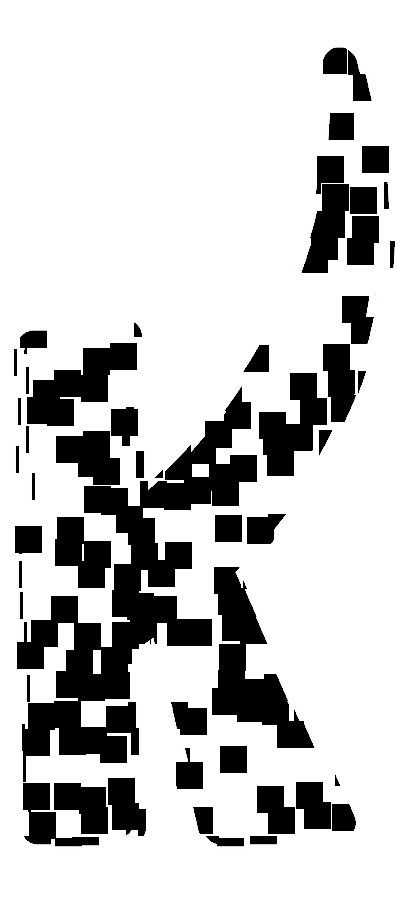
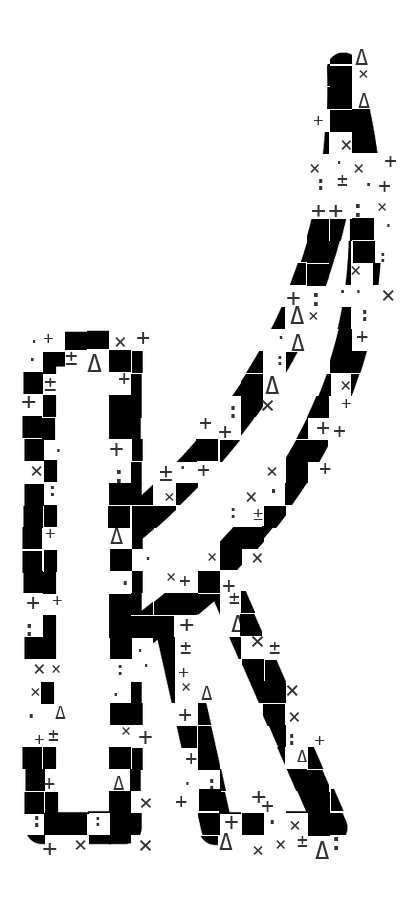
puu

Changed region(s): [[0.0295, 0.0311, 0.973, 0.9644]]

diff --git a/main.js b/main.js
@@ -76,11 +76,11 @@
     if (chars.length < 12) return;
     var kChar = chars[7];
     kChar.classList.add("char--kmark");
-    kChar.innerHTML = '<img src="assets/brand/k-mark.png" alt="">';
+    kChar.innerHTML = '<img src="assets/brand/k-mark.png?v=3" alt="">';
     if (kChar.parentNode) kChar.parentNode.classList.add("char-clip--kmark");
     var trace = doc.querySelector(".wordmark--trace");
     if (trace) {
-      trace.innerHTML = 'Etienne<img class="wordmark__kmark-trace" src="assets/brand/k-mark.png" alt="">ainz';
+      trace.innerHTML = 'Etienne<img class="wordmark__kmark-trace" src="assets/brand/k-mark.png?v=3" alt="">ainz';
     }
   })();
 
@@ -489,31 +489,34 @@
           };
         };
         openingTimeline
-          // Pixel-perfect takeover from the inline mark before letters move.
+          // Atomic takeover: the overlay replaces the inline mark in a
+          // single beat, before the mask or the letters begin to move —
+          // at no point are two Ks visible.
           .fromTo(kLogo, {
             x: function () { return kStart().x; },
             y: function () { return kStart().y; },
             scale: function () { return kStart().scale; },
             opacity: 0
-          }, { opacity: 1, duration: 0.025, ease: "none" }, 0.05)
-          .to(".char-clip--kmark", { opacity: 0, duration: 0.015, ease: "none" }, 0.075)
+          }, { opacity: 1, duration: 0.006, ease: "none" }, 0.018)
+          .to(".char-clip--kmark", { opacity: 0, duration: 0.006, ease: "none" }, 0.018)
           .to(kLogo, {
             x: function () { return window.innerWidth * 0.51 - kLogo.offsetWidth / 2; },
             y: function () { return window.innerHeight * 0.45 - kLogo.offsetHeight / 2; },
             scale: function () { return window.innerHeight * 0.55 / Math.max(1, kLogo.offsetHeight); },
-            duration: 0.24,
+            duration: 0.26,
             ease: "power2.inOut"
-          }, 0.1)
-          // Granular disintegration: solid → coarse → sparse → dust.
-          .to(kFrames[0], { opacity: 0, duration: 0.05, ease: "none" }, 0.26)
-          .to(kFrames[1], { opacity: 1, duration: 0.045, ease: "none" }, 0.252)
-          .to(kFrames[1], { opacity: 0, duration: 0.05, ease: "none" }, 0.315)
-          .to(kFrames[2], { opacity: 1, duration: 0.045, ease: "none" }, 0.308)
-          .to(kFrames[2], { opacity: 0, duration: 0.05, ease: "none" }, 0.37)
-          .to(kFrames[3], { opacity: 1, duration: 0.045, ease: "none" }, 0.362)
-          .to(kFrames[3], { opacity: 0, duration: 0.075, ease: "power1.in" }, 0.425)
-          // The dust keeps drifting up and outward as it converts.
-          .to(kLogo, { y: "-=34", scale: "+=0.06", duration: 0.24, ease: "none" }, 0.26);
+          }, 0.06)
+          // The mark converts to field notation: each stage swaps more of
+          // the solid artwork for glyph dust, blending long and gently.
+          .to(kFrames[0], { opacity: 0, duration: 0.07, ease: "none" }, 0.24)
+          .to(kFrames[1], { opacity: 1, duration: 0.06, ease: "none" }, 0.235)
+          .to(kFrames[1], { opacity: 0, duration: 0.07, ease: "none" }, 0.305)
+          .to(kFrames[2], { opacity: 1, duration: 0.06, ease: "none" }, 0.3)
+          .to(kFrames[2], { opacity: 0, duration: 0.07, ease: "none" }, 0.37)
+          .to(kFrames[3], { opacity: 1, duration: 0.06, ease: "none" }, 0.365)
+          .to(kFrames[3], { opacity: 0, duration: 0.09, ease: "power1.in" }, 0.44)
+          // The dust keeps drifting up as it converts into the live field.
+          .to(kLogo, { y: "-=28", scale: "+=0.05", duration: 0.27, ease: "none" }, 0.24);
       }
     }
 

diff --git a/index.html b/index.html
@@ -16,7 +16,7 @@
   <link rel="preconnect" href="https://fonts.googleapis.com">
   <link rel="preconnect" href="https://fonts.gstatic.com" crossorigin>
   <link href="https://fonts.googleapis.com/css2?family=IBM+Plex+Mono:wght@400;500&amp;family=Space+Grotesk:wght@400;500;600&amp;display=swap" rel="stylesheet">
-  <link rel="stylesheet" href="styles.css?v=13">
+  <link rel="stylesheet" href="styles.css?v=14">
 </head>
 <body class="home-page is-loading">
   <a class="skip-link" href="#main">Skip to content</a>
@@ -90,10 +90,10 @@
           <div class="wordmark wordmark--trace" aria-hidden="true">EtienneKainz</div>
         </div>
         <div class="hero__klogo" aria-hidden="true">
-          <img src="assets/brand/k-mark.png" alt="">
-          <img src="assets/brand/k-dissolve-1.png" alt="">
-          <img src="assets/brand/k-dissolve-2.png" alt="">
-          <img src="assets/brand/k-dissolve-3.png" alt="">
+          <img src="assets/brand/k-mark.png?v=3" alt="">
+          <img src="assets/brand/k-dissolve-1.png?v=3" alt="">
+          <img src="assets/brand/k-dissolve-2.png?v=3" alt="">
+          <img src="assets/brand/k-dissolve-3.png?v=3" alt="">
         </div>
         <div class="hero__subline" data-reveal="rise">
           <p>Mechanical Engineering — TU Wien · Design / CFD / Propulsion / Structures</p>
@@ -428,8 +428,8 @@
   <script src="https://cdn.jsdelivr.net/npm/gsap@3.12.5/dist/ScrollTrigger.min.js"></script>
   <script src="https://cdn.jsdelivr.net/npm/lenis@1.1.20/dist/lenis.min.js"></script>
   <script src="project-data.js?v=3"></script>
-  <script src="quantum-field.js?v=15"></script>
-  <script src="main.js?v=10"></script>
+  <script src="quantum-field.js?v=16"></script>
+  <script src="main.js?v=11"></script>
   <script src="elastic-wave.js?v=1"></script>
 </body>
 </html>

diff --git a/drawings.html b/drawings.html
@@ -10,7 +10,7 @@
   <link rel="preconnect" href="https://fonts.googleapis.com">
   <link rel="preconnect" href="https://fonts.gstatic.com" crossorigin>
   <link href="https://fonts.googleapis.com/css2?family=IBM+Plex+Mono:wght@400;500&amp;family=Space+Grotesk:wght@400;500;600&amp;display=swap" rel="stylesheet">
-  <link rel="stylesheet" href="styles.css?v=13">
+  <link rel="stylesheet" href="styles.css?v=14">
 </head>
 <body class="gallery-page drawings-page">
   <a class="skip-link" href="#galleryMain">Skip to content</a>
@@ -134,7 +134,7 @@
   <script src="https://cdn.jsdelivr.net/npm/gsap@3.12.5/dist/gsap.min.js"></script>
   <script src="https://cdn.jsdelivr.net/npm/gsap@3.12.5/dist/ScrollTrigger.min.js"></script>
   <script src="https://cdn.jsdelivr.net/npm/lenis@1.1.20/dist/lenis.min.js"></script>
-  <script src="quantum-field.js?v=15"></script>
-  <script src="main.js?v=10"></script>
+  <script src="quantum-field.js?v=16"></script>
+  <script src="main.js?v=11"></script>
 </body>
 </html>

diff --git a/aerial.html b/aerial.html
@@ -10,7 +10,7 @@
   <link rel="preconnect" href="https://fonts.googleapis.com">
   <link rel="preconnect" href="https://fonts.gstatic.com" crossorigin>
   <link href="https://fonts.googleapis.com/css2?family=IBM+Plex+Mono:wght@400;500&amp;family=Space+Grotesk:wght@400;500;600&amp;display=swap" rel="stylesheet">
-  <link rel="stylesheet" href="styles.css?v=13">
+  <link rel="stylesheet" href="styles.css?v=14">
 </head>
 <body class="gallery-page aerial-page">
   <a class="skip-link" href="#galleryMain">Skip to content</a>
@@ -107,7 +107,7 @@
   <script src="https://cdn.jsdelivr.net/npm/gsap@3.12.5/dist/gsap.min.js"></script>
   <script src="https://cdn.jsdelivr.net/npm/gsap@3.12.5/dist/ScrollTrigger.min.js"></script>
   <script src="https://cdn.jsdelivr.net/npm/lenis@1.1.20/dist/lenis.min.js"></script>
-  <script src="quantum-field.js?v=15"></script>
-  <script src="main.js?v=10"></script>
+  <script src="quantum-field.js?v=16"></script>
+  <script src="main.js?v=11"></script>
 </body>
 </html>

diff --git a/styles.css b/styles.css
@@ -772,6 +772,13 @@ img {
   transform: translateY(.065em);
 }
 
+/* The trace ghost shows the name WITHOUT the K — the mark has departed.
+   Keeping the element preserves the letter spacing; hiding it prevents a
+   second K appearing behind the gliding one. */
+.wordmark__kmark-trace {
+  visibility: hidden;
+}
+
 .hero__subline {
   position: absolute;
   right: var(--pad);

diff --git a/quantum-field.js b/quantum-field.js
@@ -357,7 +357,7 @@
       kFormation = points;
       requestFrame();
     };
-    kImage.src = "assets/brand/k-mark.png";
+    kImage.src = "assets/brand/k-mark.png?v=3";
   }
 
   // Opening A — the state blooms: lobes stretch, orbits widen and tilt.
